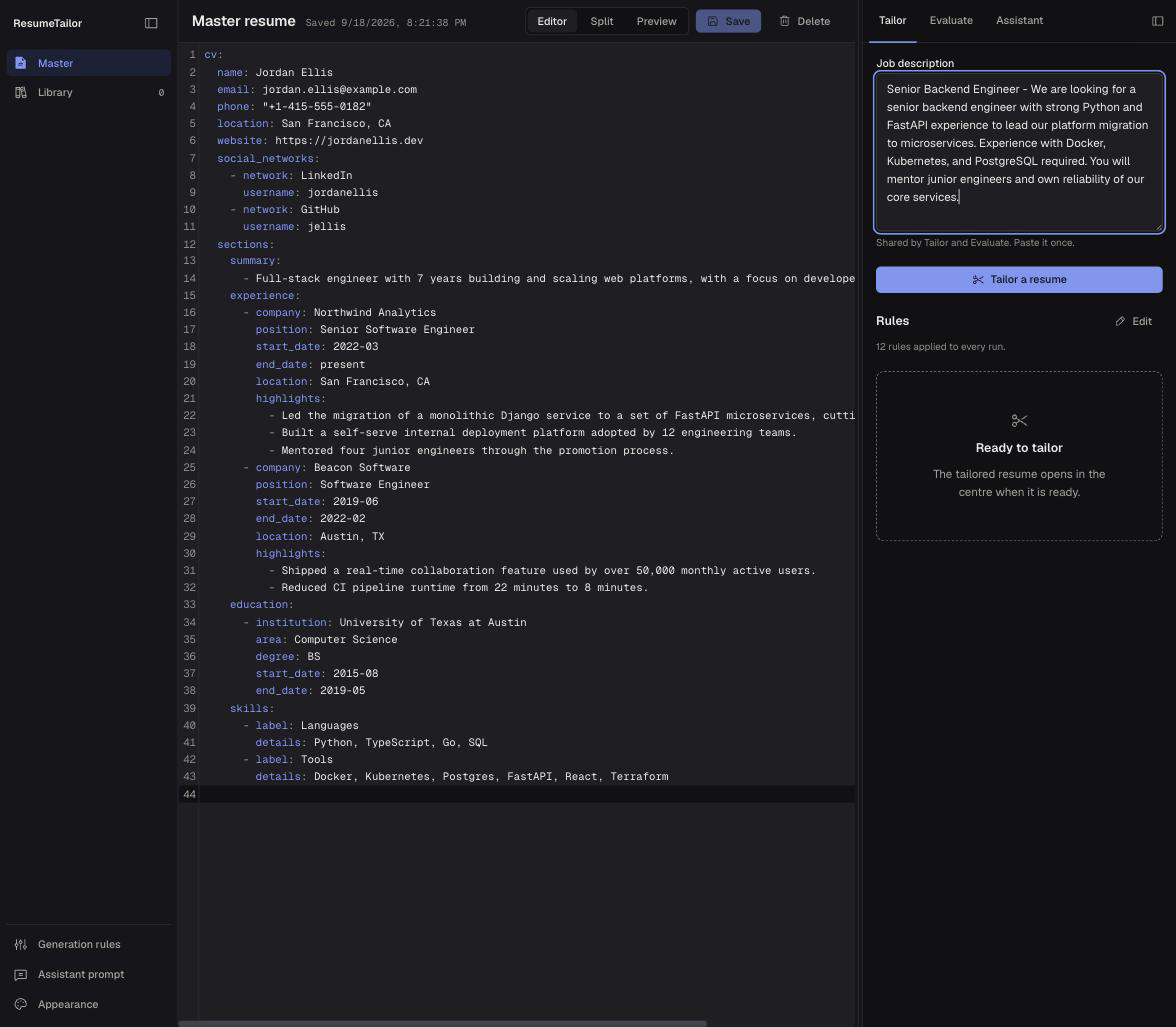
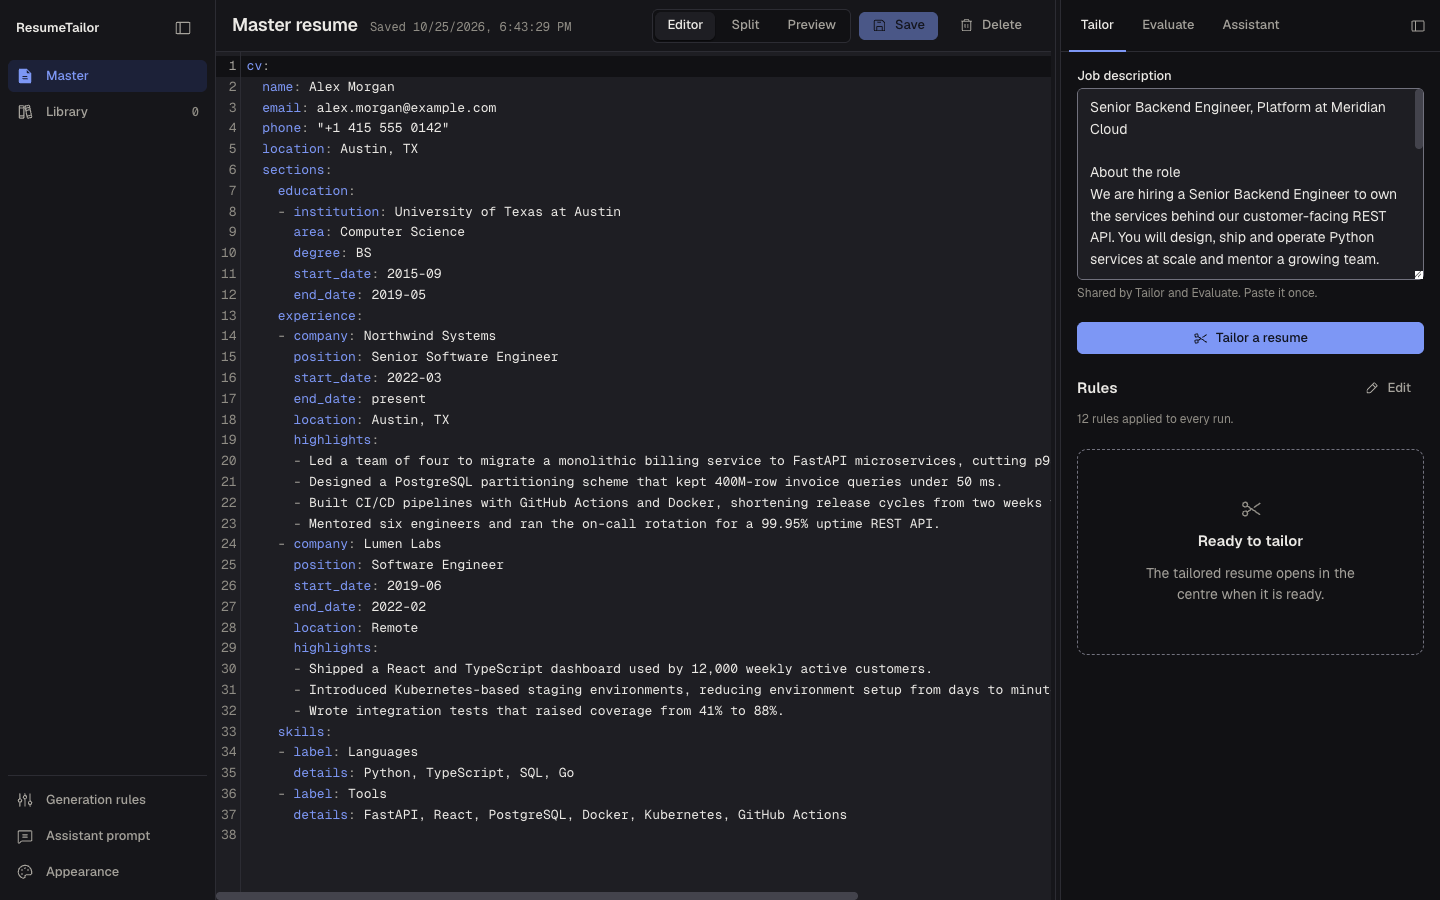
docs(docs): retake README screenshots against the current UI
Retook all eleven screenshots (1440x900, stub LLM with the real RenderCV
renderer, fictional resume) and added the Assistant prompt dialog. README now
documents the assistant prompt, the assistant usage counter and
LLM_RATE_LIMIT_PER_MINUTE/_PER_DAY, and notes that assistant text and
evaluation results in the screenshots are the stub's canned output.

diff --git a/README.md b/README.md
@@ -26,18 +26,20 @@ Both themes are first-class (light is the default, dark is a full token swap), s
 
 | Assistant, a completed tool call | Settings: generation rules |
 |---|---|
-| ![The assistant confirming it generated a tailored resume, with the new entry visible in the Library](docs/screenshots/assistant-chat-action-dark.png) | ![The generation rules dialog: per-section limits applied to every tailored resume](docs/screenshots/settings-generation-rules-dark.png) |
+| ![The assistant confirming a rules update it made through a tool call, with the request usage counter in the panel header](docs/screenshots/assistant-chat-action-dark.png) | ![The generation rules dialog: per-section limits applied to every tailored resume](docs/screenshots/settings-generation-rules-dark.png) |
 
-| Settings: appearance |
-|---|
-| ![The appearance dialog: light, dark, or system](docs/screenshots/settings-appearance-dark.png) |
+| Settings: assistant prompt | Settings: appearance |
+|---|---|
+| ![The assistant prompt dialog: the standing instructions the assistant reads before every message](docs/screenshots/settings-assistant-prompt-dark.png) | ![The appearance dialog: light, dark, or system](docs/screenshots/settings-appearance-dark.png) |
+
+> The screenshots are captured against the deterministic stub (`LLM_MOCK=true`) with a fictional resume, so the assistant's reply text and the evaluation's score and keyword chips are the stub's canned output, not a real model's. The layout and behavior shown are the real app's.
 
 ---
 
 ## Features
 
 **The workspace**
-Three zones: a navigation rail (Master, Library, and settings), a center document region, and a right-hand inspector. Whatever document is open, master or generated, uses the same Editor / Split / Preview control, so a generated resume gets exactly the same editing surface as the master.
+Three zones: a navigation rail (Master, Library, and the Generation rules, Assistant prompt and Appearance settings), a center document region, and a right-hand inspector. Whatever document is open, master or generated, uses the same Editor / Split / Preview control, so a generated resume gets exactly the same editing surface as the master.
 
 **Master resume**
 Write your complete career history once in [rendercv](https://rendercv.com) YAML, with full syntax highlighting in both themes. The live PDF preview renders alongside the editor. Import an existing PDF and the AI converts it to YAML for you. Edits autosave a local draft and warn before you navigate away with unsaved changes.
@@ -55,7 +57,10 @@ Every generated resume, sortable by date or job description and paged past the f
 Per-section numeric limits (max bullets, max characters, max entries) applied to every tailoring run, editable from a settings dialog, no prompt-editing required.
 
 **Assistant**
-A real chat surface, docked in the inspector so you can watch your document change as it works. It can edit your master resume, generate a tailored resume for a job description, evaluate a resume against one, or update your generation rules, each backed by the same validated write path the rest of the app uses, not a suggestion you have to apply yourself.
+A real chat surface, docked in the inspector so you can watch your document change as it works. It can edit your master resume, generate a tailored resume for a job description, evaluate a resume against one, or update your generation rules, each backed by the same validated write path the rest of the app uses, not a suggestion you have to apply yourself. The panel header carries a request counter (calls this minute and today against the provider's rate limit, set by `LLM_RATE_LIMIT_PER_MINUTE` and `LLM_RATE_LIMIT_PER_DAY`). It is informational only and is never enforced by the app.
+
+**Assistant prompt**
+The standing instructions the assistant reads before every message, editable from a settings dialog, with a reset to the default. A change applies to every conversation, including the current one.
 
 **Appearance**
 Light, dark, or system, set from a settings dialog and applied instantly across every surface, including the YAML editor.
@@ -217,6 +222,8 @@ LiteLLM is used under the hood, so any provider it supports works: set `LLM_MODE
 | `GRACEFUL_SHUTDOWN_TIMEOUT_S` | `60.0` | How long shutdown waits for in-flight SSE streams (generation, chat, evaluation) to finish before the connection is dropped. |
 | `REAPER_INTERVAL_S` | `3600.0` | How often the background orphan reaper re-scans generated PDFs against the database after its one guaranteed run at startup. |
 | `REAPER_DELETE_GRACE_S` | `300.0` | How young a PDF file must be to be exempt from the reaper's delete pass, protecting a file a concurrent generation is still writing. |
+| `LLM_RATE_LIMIT_PER_MINUTE` | `20` | Per-minute ceiling the assistant's usage counter displays. Informational only, never enforced. |
+| `LLM_RATE_LIMIT_PER_DAY` | `50` | Per-day (calendar UTC) ceiling the usage counter displays. Informational only, never enforced. |
 
 ---
 

diff --git a/PLAN.md b/PLAN.md
@@ -593,3 +593,4 @@ Task 0.12 (`ChatPanel.tsx:57`'s uncaught rejection): **moot**, per D-84. `ChatPa
 | 2026-09-18 | 4.5 | `docs` | Screenshots retaken and the README rewritten against the shipped UI, closing D-61 (§2.1's closure note added). Last task of the four-wave restructure: the release gate is now fully satisfied. Ran the real app live end to end (frontend build copied into `backend/static/`, `uv run uvicorn` with `LLM_MOCK=true`, driven with a real Chrome browser); no screenshot here was fabricated or described without being captured. Eight stale screenshots deleted, eleven new ones added, both themes shown for the three most representative surfaces (onboarding, the master document editor, a Library document). README rewritten in full to match the real three-zone workspace, the four inspector surfaces and their real feature set, the installed-package dev setup (D-65 dropped `PYTHONPATH=src`), the `docker compose --profile dev` hot-reload path and `make backup`/`restore`/`migrate`, a Configuration table rebuilt from `core/config.py`'s actual `Settings` fields, and an Architecture diagram with the dead `yaml_utils.py` reference fixed and the observability endpoints and orphan reaper named. Two real findings from doing this live, not from reading source: a local-environment gotcha (`localhost`/`127.0.0.1` returned a bare 404 that never reached the server's own logs; binding uvicorn to `0.0.0.0` and using the host's LAN IP fixed it — matches a previously-recorded environment memory, not a product bug) and **D-89** (P1, new: onboarding's "Start from the sample" path 422s unconditionally for every user, mock or real, because the frontend's own `SAMPLE_YAML` fixture carries the same class of invalid placeholder phone number D-75 already named on the backend's mock fixture, newly reachable through everyone's very first write since D-04 started validating `PUT /api/master-resume` strictly). `make check` green: 402 backend tests (94.87% coverage), 331 frontend tests. Full account in `docs/reports/4-4.5.md` |
 | 2026-09-18 | debt/D-89 | `frontend-features` | Fixed D-89 (P1, found live by task 4.5): swapped the onboarding sample's invalid placeholder phone number (`"+1 555 000 0000"`) for `"+1 415 555 2671"` in `frontend/src/features/onboarding/sample.ts`, the same validator-passing number D-75's fix converged the rest of the codebase on. Verified directly with `phonenumbers.is_valid_number`. No new test needed: `test/e2e/01-onboarding.spec.ts`'s existing sample-path test already covers this flow and was already correctly written to fail on the bug, it had just never run against a live backend before. `make check` green (402 backend, 340 frontend). With this fix, every P0/P1 finding from wave 4 and its release-gate triage is closed |
 | 2026-10-22 | repo-rename | `docs` | GitHub repo renamed `resume-tailoring-platform` -> `resume-tailoring-platform-project`. Updated the README clone URL and `cd`, the CONTRIBUTING `cd`, the PLAN.md §3.2 tree root and the local `origin` remote. Deliberately left alone: the Docker Compose project name `resume-tailoring-platform` (README §E2E table, `docker-compose.test.yml` comment), which derives from the local checkout directory rather than the repo, and renaming it would orphan the dev named volumes; plus `docs/archive/` and `docs/reports/audit-infra.md`, which are historical records |
+| 2026-10-25 | docs/screenshots | `docs` | Retook all README screenshots against the current UI (1440x900, `LLM_MOCK=true` stub LLM with the real RenderCV renderer, fictional resume) and added `settings-assistant-prompt-dark.png`. README now documents the Assistant prompt dialog, the assistant usage counter and `LLM_RATE_LIMIT_PER_MINUTE`/`_PER_DAY`, and carries a note that assistant text and evaluation scores in the screenshots are the stub's canned output. The assistant shot shows a rules update rather than a generation, because the stub's generation returns a fixed "Mock User" resume. |
